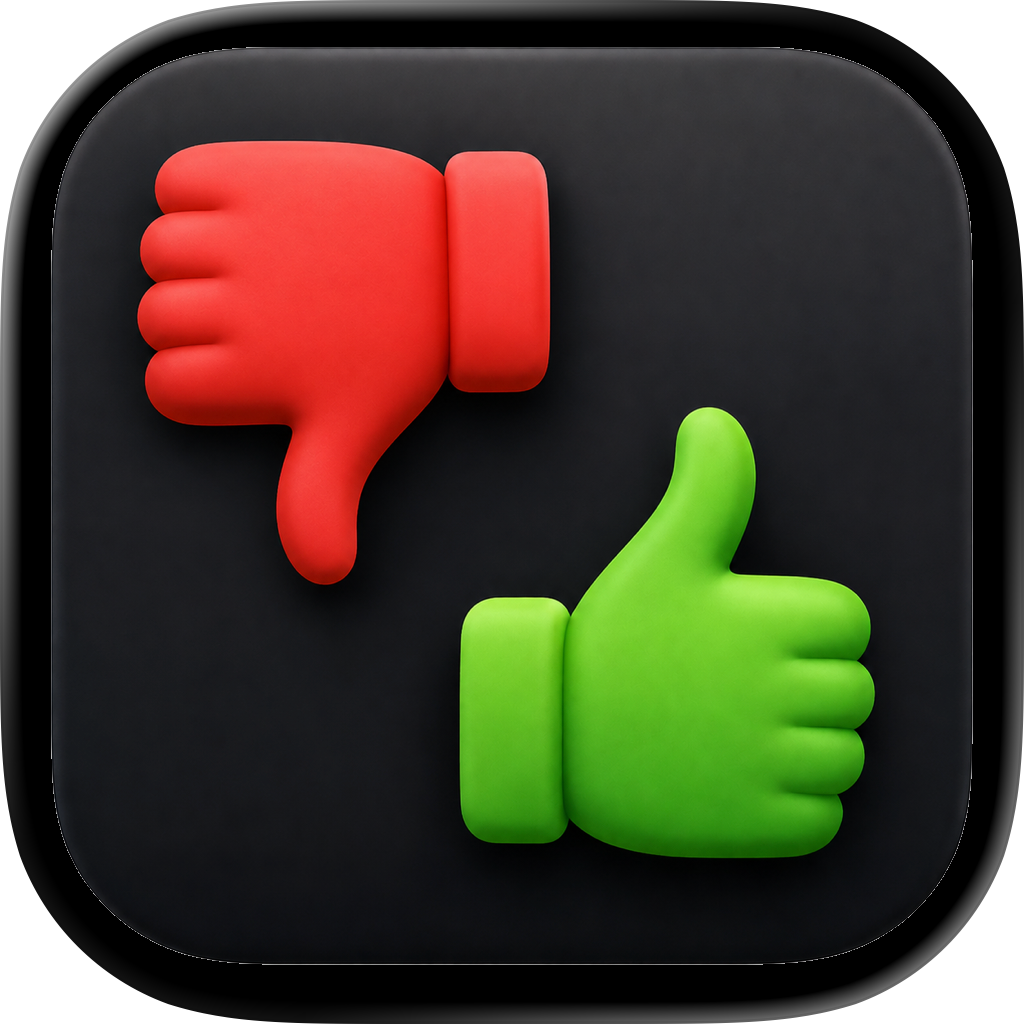
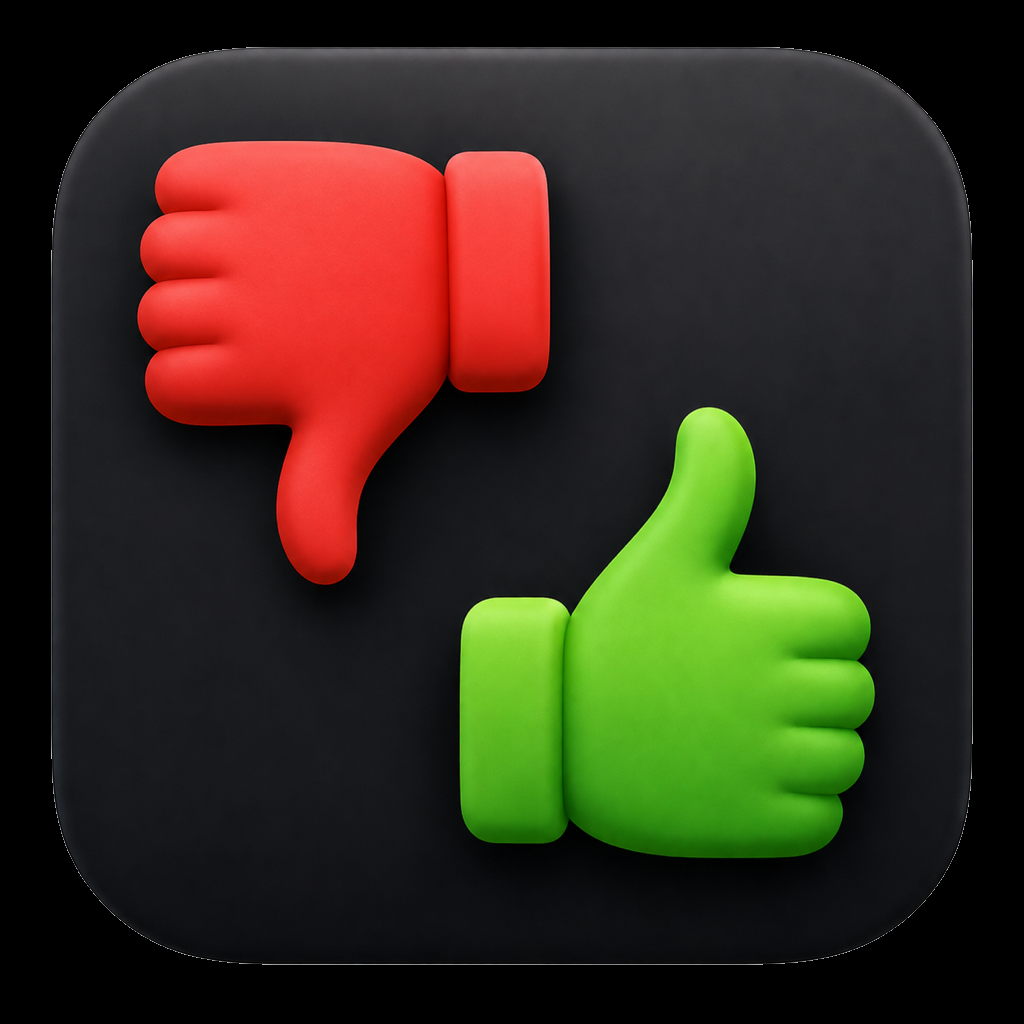
Add Red-Handed app page

Changed region(s): [[0.0, 0.0, 1.0, 1.0], [0.3438, 0.3438, 1.0, 1.0]]

diff --git a/apps/red-handed/index.html b/apps/red-handed/index.html
@@ -1,0 +1,148 @@
+<!DOCTYPE html>
+<html lang="en">
+  <head>
+    <meta charset="utf-8">
+    <meta name="viewport" content="width=device-width, initial-scale=1">
+    <meta name="description" content="Turn everyday questions into funny investigations with Red-Handed, the pretend lie detector prank app for kids, family and friends on iPhone and iPad.">
+    <meta property="og:title" content="Red-Handed | Funny Lie Detector Prank App">
+    <meta property="og:description" content="You pick the verdict. Red-Handed does the theater.">
+    <meta property="og:image" content="https://gobsmackedapps.com/apps/red-handed/social-card.png">
+    <meta property="og:type" content="website">
+    <meta property="og:url" content="https://gobsmackedapps.com/apps/red-handed/">
+    <title>Red-Handed App | Funny Lie Detector Prank Game</title>
+    <link rel="stylesheet" href="../../styles.css?v=20260813-2">
+    <script type="application/ld+json">
+      {
+        "@context": "https://schema.org",
+        "@type": "SoftwareApplication",
+        "name": "Red-Handed",
+        "applicationCategory": "EntertainmentApplication",
+        "operatingSystem": "iOS, iPadOS",
+        "description": "A pretend lie detector prank app for playful family investigations, dramatic verdicts and funny reaction videos.",
+        "url": "https://gobsmackedapps.com/apps/red-handed/",
+        "downloadUrl": "https://apps.apple.com/app/id6794058831",
+        "offers": {
+          "@type": "Offer",
+          "price": "0",
+          "priceCurrency": "USD",
+          "availability": "https://schema.org/InStock"
+        }
+      }
+    </script>
+  </head>
+  <body class="app-detail-page more-house-page red-handed-page">
+    <header class="site-header">
+      <div class="site-header-inner">
+        <a class="brand" href="../../index.html" aria-label="Gobsmacked Apps home">
+          <img src="../../other-images/logo.png" class="brand-logo" alt="">
+          <span>GOBSMACKED, LLC</span>
+        </a>
+        <nav class="site-nav" aria-label="Main navigation">
+          <a href="../../index.html">Mission</a>
+          <a href="../index.html" aria-current="page">Apps</a>
+          <a href="../../privacy/index.html">Privacy</a>
+        </nav>
+      </div>
+    </header>
+
+    <main>
+      <section class="app-detail-hero page-shell">
+        <div class="app-detail-product">
+          <img src="../../app-icons/red-handed.png" class="app-detail-icon" alt="Red-Handed app icon">
+          <a class="app-detail-action is-available" href="https://apps.apple.com/app/id6794058831" target="_blank" rel="noopener noreferrer" data-app-detail-id="6794058831" aria-label="Get Red-Handed on the App Store">GET</a>
+          <p class="app-detail-note">For iPhone and iPad. Entertainment only—not a real lie detector.</p>
+        </div>
+        <div class="app-detail-copy">
+          <p class="eyebrow">FUNNY LIE DETECTOR · FAMILY PRANK GAME</p>
+          <h1>Red~Handed</h1>
+          <h2>Catch them Red Handed.</h2>
+          <p>Red-Handed turns everyday questions into funny investigations. Test your kids, friends or family, secretly choose the verdict, and let the app deliver the dramatic result you already knew was coming.</p>
+          <p class="privacy-promise">Not real, but really fun. Test media and face processing stay on your device unless you choose to save or share them.</p>
+        </div>
+      </section>
+
+      <section class="app-content-section workflow-section">
+        <div class="page-shell">
+          <div class="section-heading">
+            <p class="eyebrow">HOW THE PRANK WORKS</p>
+            <h2>You pick the verdict. Red-Handed does the theater.</h2>
+            <p>Turn an ordinary question into a full-blown investigation in less than a minute.</p>
+          </div>
+          <ol class="workflow-grid">
+            <li>
+              <span class="step-number">01</span>
+              <h3>Start the test</h3>
+              <p>Open a new case and line up your suspect for questioning.</p>
+              <img class="workflow-screen" src="./screens/home.png" loading="lazy" alt="Red-Handed funny lie detector app home screen with Start Test button">
+            </li>
+            <li>
+              <span class="step-number">02</span>
+              <h3>Ask the question</h3>
+              <p>Frame their face, ask the big question and wait for the defense.</p>
+              <img class="workflow-screen" src="./screens/how-to-use.png" loading="lazy" alt="Instructions explaining how to use the Red-Handed prank lie detector app">
+            </li>
+            <li>
+              <span class="step-number">03</span>
+              <h3>Choose the answer</h3>
+              <p>Secretly tap Truthful, Inconclusive or Lying while they answer.</p>
+              <img class="workflow-screen" src="./screens/analysis.png" loading="lazy" alt="Red-Handed app analyzing a subject before revealing a pretend verdict">
+            </li>
+            <li>
+              <span class="step-number">04</span>
+              <h3>Enjoy the reveal</h3>
+              <p>Scanning graphics, sound and a bold verdict deliver the punchline.</p>
+              <img class="workflow-screen" src="./screens/lying-verdict.png" loading="lazy" alt="Red-Handed app displaying a dramatic red Lying verdict">
+            </li>
+          </ol>
+        </div>
+      </section>
+
+      <section class="app-content-section difference-section page-shell">
+        <div class="section-heading">
+          <p class="eyebrow">EVERYTHING AN INVESTIGATOR NEEDS</p>
+          <h2>Serious presentation. Delightfully unscientific results.</h2>
+        </div>
+        <div class="difference-grid">
+          <article>
+            <h3>Three verdicts</h3>
+            <p>Choose Truthful, Inconclusive or Lying so every test lands where the moment needs it.</p>
+            <img class="feature-screen" src="./screens/truthful-verdict.png" loading="lazy" alt="Red-Handed app displaying a green Truthful verdict">
+          </article>
+          <article>
+            <h3>Theatrical analysis</h3>
+            <p>A suspenseful scan, official-looking graphics and sound sell the joke before the reveal.</p>
+            <img class="feature-screen" src="./screens/analysis.png" loading="lazy" alt="Red-Handed theatrical face analysis screen during a pretend lie detector test">
+          </article>
+          <article>
+            <h3>Reactions worth replaying</h3>
+            <p>Create verdict photos and result videos, then save or share them with Apple’s familiar controls.</p>
+            <img class="feature-screen" src="./screens/lying-verdict.png" loading="lazy" alt="Red-Handed red Lying result designed for a funny reaction photo or video">
+          </article>
+          <article>
+            <h3>Private by design</h3>
+            <p>Photos, videos and face effects remain on the device unless the user deliberately saves or shares them.</p>
+            <img class="feature-screen" src="./screens/how-to-use.png" loading="lazy" alt="Red-Handed instructions explaining its playful operator-controlled test">
+          </article>
+        </div>
+      </section>
+
+      <section class="app-final-cta page-shell">
+        <img src="../../app-icons/red-handed.png" alt="" class="app-final-icon">
+        <div>
+          <p class="eyebrow">THE TRUTH BUTTON AWAITS</p>
+          <h2>Bring a straight face. Red-Handed supplies the rest.</h2>
+          <p>Made for harmless family fun, playful interrogations and reaction videos—not real accusations or consequential decisions.</p>
+        </div>
+        <a class="app-detail-action is-available" href="https://apps.apple.com/app/id6794058831" target="_blank" rel="noopener noreferrer">VIEW ON THE APP STORE</a>
+      </section>
+    </main>
+
+    <footer class="site-footer">
+      <div class="page-shell footer-inner">
+        <p>© 2026 Gobsmacked, LLC</p>
+        <a href="../../privacy/index.html">Privacy Policy</a>
+      </div>
+    </footer>
+    <script src="../../script.js"></script>
+  </body>
+</html>

diff --git a/styles.css b/styles.css
@@ -932,6 +932,71 @@ a {
   line-height: 1.38;
 }
 
+/* Red-Handed shares the compact app-detail structure with its own evidence-board palette. */
+.red-handed-page {
+  --red-handed-navy: #061c36;
+  --red-handed-cream: #fbf7ef;
+  --red-handed-gold: #c79531;
+  --red-handed-red: #a23c35;
+}
+
+.red-handed-page .app-detail-copy h1,
+.red-handed-page .app-detail-copy h2 {
+  color: var(--red-handed-navy);
+}
+
+.red-handed-page .app-detail-action.is-available {
+  color: #fff;
+  background: var(--red-handed-red);
+}
+
+.red-handed-page .privacy-promise {
+  color: #76551c;
+  border-top-color: #eadfc8;
+}
+
+.red-handed-page .workflow-section {
+  background: var(--red-handed-cream);
+}
+
+.red-handed-page .workflow-grid li {
+  border-color: #e5d8be;
+}
+
+.red-handed-page .workflow-grid .step-number {
+  color: var(--red-handed-red);
+}
+
+.red-handed-page .workflow-screen,
+.red-handed-page .feature-screen {
+  width: min(100%, 148px);
+  height: auto;
+  aspect-ratio: auto;
+  margin-right: auto;
+  margin-left: auto;
+  border-color: #d8c8aa;
+  background: #fff;
+  box-shadow: 0 10px 24px rgba(6, 28, 54, 0.1);
+}
+
+.red-handed-page .difference-grid article {
+  border-color: #e6dfd2;
+  background: #faf8f3;
+}
+
+.red-handed-page .app-final-cta {
+  background: var(--red-handed-navy);
+}
+
+.red-handed-page .app-final-cta .eyebrow {
+  color: #d1ad63;
+}
+
+.red-handed-page .app-final-cta .app-detail-action {
+  color: var(--red-handed-navy);
+  background: #fff;
+}
+
 .contact-strip {
   display: flex;
   align-items: center;

diff --git a/apps/more-house/index.html b/apps/more-house/index.html
@@ -5,7 +5,7 @@
     <meta name="viewport" content="width=device-width, initial-scale=1">
     <meta name="description" content="Compare renting and buying, estimate your true monthly home cost, test down payments and PMI, and project equity with More-House.">
     <title>More-House Rent vs. Buy App | Home Affordability Calculator</title>
-    <link rel="stylesheet" href="../../styles.css?v=20260813-1">
+    <link rel="stylesheet" href="../../styles.css?v=20260813-2">
     <script type="application/ld+json">
       {
         "@context": "https://schema.org",

diff --git a/index.html b/index.html
@@ -5,7 +5,7 @@
     <meta name="viewport" content="width=device-width, initial-scale=1">
     <meta name="description" content="Gobsmacked Apps builds thoughtful mobile apps that make everyday life simpler, clearer, and more enjoyable.">
     <title>Our Mission | Gobsmacked Apps</title>
-    <link rel="stylesheet" href="styles.css?v=20260813-1">
+    <link rel="stylesheet" href="styles.css?v=20260813-2">
   </head>
   <body>
     <header class="site-header">

diff --git a/privacy/index.html b/privacy/index.html
@@ -5,7 +5,7 @@
     <meta name="viewport" content="width=device-width, initial-scale=1">
     <meta name="description" content="Privacy policy for Gobsmacked Apps and its mobile applications.">
     <title>Privacy Policy | Gobsmacked Apps</title>
-    <link rel="stylesheet" href="../styles.css?v=20260813-1">
+    <link rel="stylesheet" href="../styles.css?v=20260813-2">
   </head>
   <body>
     <header class="site-header">

diff --git a/apps/index.html b/apps/index.html
@@ -5,7 +5,7 @@
     <meta name="viewport" content="width=device-width, initial-scale=1">
     <meta name="description" content="Explore mobile apps from Gobsmacked Apps.">
     <title>Our Apps | Gobsmacked Apps</title>
-    <link rel="stylesheet" href="../styles.css?v=20260813-1">
+    <link rel="stylesheet" href="../styles.css?v=20260813-2">
   </head>
   <body>
     <header class="site-header">

diff --git a/script.js b/script.js
@@ -13,6 +13,7 @@ const apps = [
         title: "Red-Handed",
         description: "A truth detector app that you can use to play tricks on your kids.",
         image: "red-handed.png",
+        page: "./red-handed/index.html",
         appStoreLink: "https://apps.apple.com/app/id6794058831",
         fallbackStatus: "GET"
     },
